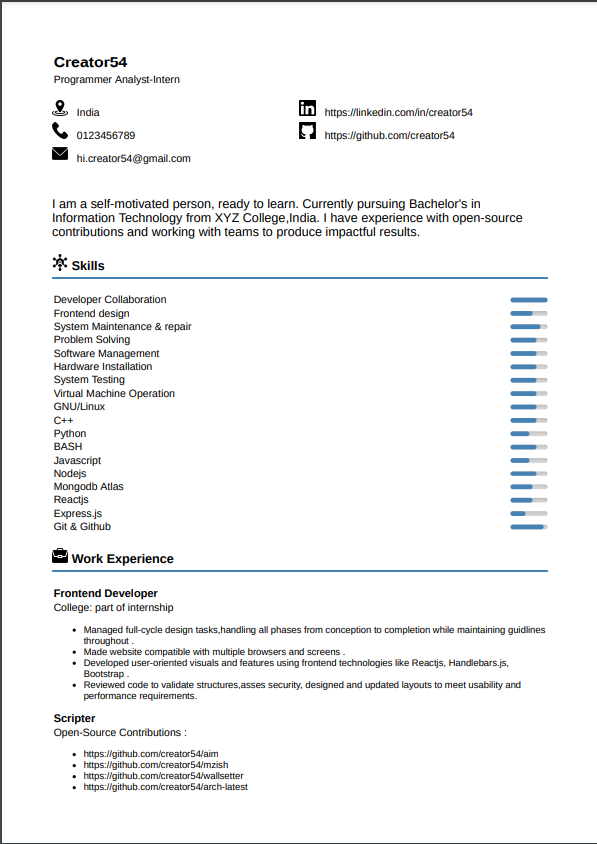
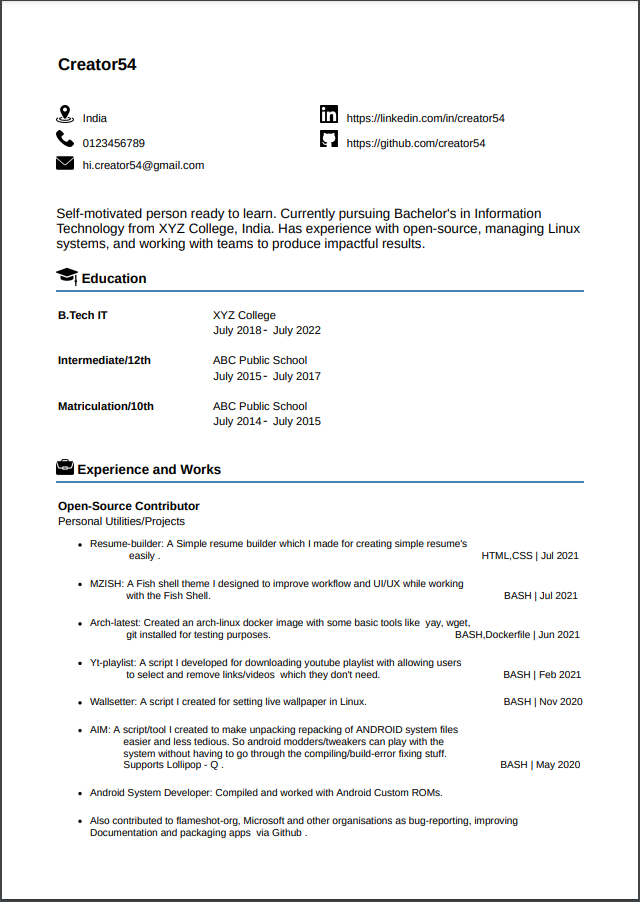
add v2

diff --git a/index.html b/index.html
@@ -11,9 +11,9 @@
       <!-- {/* Basic Details */} -->
 
       <div>
-        <input style='font-weight: bold' class='name' type='text' placeholder='Add Name'/><br/>
-        <input  type='text' placeholder='Profession you are appling for'/><br/><br/>
+        <input style='font-weight: bold;' class='name' type='text' placeholder='Add Name'/>
       </div>
+      <br/><br/>
       <div class='items'>
         <a><img src='https://image.flaticon.com/icons/png/128/1483/1483285.png' alt='location'/> <input type='text' placeholder='Add Address'/></a>
         <a><img src='https://image.flaticon.com/icons/png/128/49/49656.png' alt='linkedin'/> <input size='30' type='text' placeholder='Add URL'/></a>
@@ -25,161 +25,26 @@
       <div id="multilineinput" contenteditable="true"></div>
       <input type="hidden" name="summary"/>
 
-      <!-- {/* Skills */} -->
+      <!-- {/* Education */} -->
 
-      <div style='border-Bottom:2px solid steelblue;padding-bottom:5px'>
-        <br/><a><img style='margin-bottom: -3px;' src='https://image.flaticon.com/icons/png/128/3079/3079079.png' alt='skills'/><b>Skills</b></a>
+      <div style='border-bottom:2px solid steelblue;padding-bottom:5px'>
+        <br/><a><img style='width:25px;height:25px;margin-bottom:-6px' src='https://image.flaticon.com/icons/png/128/1940/1940611.png' alt='work'/><b>Education</b></a>
       </div>
       <br/>
-      <a class='skill'>
-        <input size='70' type='text' placeholder='add skill here, click above skills to add Summary'/>
-        <div class="wrapper" >
-          <div class="progress-bar">
-            <span class="progress-bar-fill" style='width: 100%'></span>
-          </div>
-        </div>
-      </a>
-      <a class='skill'>
-        <input size='70' type='text' placeholder='add skill here, click above skills to add Summary'/>
-        <div class="wrapper" >
-          <div class="progress-bar">
-            <span class="progress-bar-fill" style='width: 60%'></span>
-          </div>
-        </div>
-      </a>
-      <a class='skill'>
-        <input size='70' type='text' placeholder='add skill here, click above skills to add Summary'/>
-        <div class="wrapper" >
-          <div class="progress-bar">
-            <span class="progress-bar-fill" style='width: 80%'></span>
-          </div>
-        </div>
-      </a>
-      <a class='skill'>
-        <input size='70' type='text' placeholder='add skill here, click above skills to add Summary'/>
-        <div class="wrapper" >
-          <div class="progress-bar">
-            <span class="progress-bar-fill" style='width: 70%'></span>
-          </div>
-        </div>
-      </a>
-      <a class='skill'>
-        <input size='70' type='text' placeholder='add skill here, click above skills to add Summary'/>
-        <div class="wrapper" >
-          <div class="progress-bar">
-            <span class="progress-bar-fill" style='width: 70%'></span>
-          </div>
-        </div>
-      </a>
-      <a class='skill'>
-        <input size='70' type='text' placeholder='add skill here, click above skills to add Summary'/>
-        <div class="wrapper" >
-          <div class="progress-bar">
-            <span class="progress-bar-fill" style='width: 70%'></span>
-          </div>
-        </div>
-      </a>
-      <a class='skill'>
-        <input size='70' type='text' placeholder='add skill here, click above skills to add Summary'/>
-        <div class="wrapper" >
-          <div class="progress-bar">
-            <span class="progress-bar-fill" style='width: 70%'></span>
-          </div>
-        </div>
-      </a>
-      <a class='skill'>
-        <input size='70' type='text' placeholder='add skill here, click above skills to add Summary'/>
-        <div class="wrapper" >
-          <div class="progress-bar">
-            <span class="progress-bar-fill" style='width: 70%'></span>
-          </div>
-        </div>
-      </a>
-      <a class='skill'>
-        <input size='70' type='text' placeholder='add skill here, click above skills to add Summary'/>
-        <div class="wrapper" >
-          <div class="progress-bar">
-            <span class="progress-bar-fill" style='width: 70%'></span>
-          </div>
-        </div>
-      </a>
-      <a class='skill'>
-        <input size='70' type='text' placeholder='add skill here, click above skills to add Summary'/>
-        <div class="wrapper" >
-          <div class="progress-bar">
-            <span class="progress-bar-fill" style='width: 70%'></span>
-          </div>
-        </div>
-      </a>
-      <a class='skill'>
-        <input size='70' type='text' placeholder='add skill here, click above skills to add Summary'/>
-        <div class="wrapper" >
-          <div class="progress-bar">
-            <span class="progress-bar-fill" style='width: 50%'></span>
-          </div>
-        </div>
-      </a>
-      <a class='skill'>
-        <input size='70' type='text' placeholder='add skill here, click above skills to add Summary'/>
-        <div class="wrapper" >
-          <div class="progress-bar">
-            <span class="progress-bar-fill" style='width: 70%'></span>
-          </div>
-        </div>
-      </a>
-      <a class='skill'>
-        <input size='70' type='text' placeholder='add skill here, click above skills to add Summary'/>
-        <div class="wrapper" >
-          <div class="progress-bar">
-            <span class="progress-bar-fill" style='width: 50%'></span>
-          </div>
-        </div>
-      </a>
-      <a class='skill'>
-        <input size='70' type='text' placeholder='add skill here, click above skills to add Summary'/>
-        <div class="wrapper" >
-          <div class="progress-bar">
-            <span class="progress-bar-fill" style='width: 70%'></span>
-          </div>
-        </div>
-      </a>
-      <a class='skill'>
-        <input size='70' type='text' placeholder='add skill here, click above skills to add Summary'/>
-        <div class="wrapper" >
-          <div class="progress-bar">
-            <span class="progress-bar-fill" style='width: 60%'></span>
-          </div>
-        </div>
-      </a>
-      <a class='skill'>
-        <input size='70' type='text' placeholder='add skill here, click above skills to add Summary'/>
-        <div class="wrapper" >
-          <div class="progress-bar">
-            <span class="progress-bar-fill" style='width: 60%'></span>
-          </div>
-        </div>
-      </a>
-      <a class='skill'>
-        <input size='70' type='text' placeholder='add skill here, click above skills to add Summary'/>
-        <div class="wrapper" >
-          <div class="progress-bar">
-            <span class="progress-bar-fill" style='width: 40%'></span>
-          </div>
-        </div>
-      </a>
-      <a class='skill'>
-        <input size='70' type='text' placeholder='add skill here, click above skills to add Summary'/>
-        <div class="wrapper" >
-          <div class="progress-bar">
-            <span class="progress-bar-fill" style='width: 90%'></span>
-          </div>
-        </div>
-      </a>
-      
+      <input size='20' style='font-weight:bold' type='text' placeholder='Degree'/>
+      <input size='40' type='text' placeholder='From'/><br/>
+      <div class="edu-padding"><input type='text'size='5' placeholder='20XX'/>- <input size='5' type='text' placeholder='20XX'/><br/><br/></div>
+      <input size='20' style='font-weight:bold' type='text' placeholder='Degree'/>
+      <input size='40' type='text' placeholder='From'/><br/>
+      <div class="edu-padding"><input type='text'size='5' placeholder='20XX'/>- <input size='5' type='text' placeholder='20XX'/><br/><br/></div>
+      <input size='20' style='font-weight:bold' type='text' placeholder='Degree'/>
+      <input size='40' type='text' placeholder='From'/><br/>
+      <div class="edu-padding"><input type='text'size='5' placeholder='20XX'/>- <input size='5' type='text' placeholder='20XX'/><br/><br/></div>
+
       <!-- {/* Work Experience */} -->
 
       <div style='border-bottom:2px solid steelblue;padding-bottom:5px'>
-        <br/><a><img style='margin-bottom: -2px;' src='https://image.flaticon.com/icons/png/128/1063/1063299.png' alt='work'/><b>Work Experience</b></a>
+        <br/><a><img style='margin-bottom: -2px;' src='https://image.flaticon.com/icons/png/128/1063/1063299.png' alt='work'/><b>Experience and Works</b></a>
       </div>
       <br/>
 
@@ -187,6 +52,22 @@
         <input style='font-size:14px;font-weight:bold' type='text' placeholder='Add Role'></input><br/>
         <input type='text' placeholder='Add organisation Address'></input><br/>
         <ol style='list-style-type:disc'>
+          <li>
+            <div id="multilineinput" contenteditable="true"></div>
+            <input type='hidden'/>
+          </li>
+          <li>
+            <div id="multilineinput" contenteditable="true"></div>
+            <input type='hidden'/>
+          </li>
+          <li>
+            <div id="multilineinput" contenteditable="true"></div>
+            <input type='hidden'/>
+          </li>
+          <li>
+            <div id="multilineinput" contenteditable="true"></div>
+            <input type='hidden'/>
+          </li>
           <li>
             <div id="multilineinput" contenteditable="true"></div>
             <input type='hidden'/>
@@ -229,21 +110,96 @@
         </ol>
       </a>
 
-      <!-- {/* Education */} -->
-      
-      <div style='border-bottom:2px solid steelblue;padding-bottom:5px'>
-        <br/><a><img style='width:25px;height:25px;margin-bottom:-6px' src='https://image.flaticon.com/icons/png/128/1940/1940611.png' alt='work'/><b>Education</b></a>
+      <!-- {/* Skills */} -->
+
+      <div style='border-Bottom:2px solid steelblue;padding-bottom:5px'>
+        <br/><a><img style='margin-bottom: -3px;' src='https://image.flaticon.com/icons/png/128/3079/3079079.png' alt='skills'/><b>Skills</b></a>
       </div>
       <br/>
-      <input size='20' style='font-weight:bold' type='text' placeholder='Degree'/>
-      (<input type='text'size='5' placeholder='Start'/>- <input size='5' type='text' placeholder='Complete'/>)<br/>
-      <input size='40' type='text' placeholder='From'/><br/><br/>
-      <input size='20' style='font-weight:bold' type='text' placeholder='Degree'/>
-      (<input type='text'size='5' placeholder='Start'/>- <input size='5' type='text' placeholder='Complete'/>)<br/>
-      <input size='40' type='text' placeholder='From'/><br/><br/>
-      <input size='20' style='font-weight:bold' type='text' placeholder='Degree'/>
-      (<input type='text'size='5' placeholder='Start'/>- <input size='5' type='text' placeholder='Complete'/>)<br/>
-      <input size='40' type='text' placeholder='From'/><br/><br/>
+      <a style='font-size:12px'>
+        <input style='font-size:14px;font-weight:bold' type='text' placeholder='Communication'></input><br/>
+        <ol style="list-style-type:disc">
+          <li>
+            <div id="multilineinput" contenteditable="true"></div>
+            <input type='hidden'/>
+          </li>
+          <li>
+            <div id="multilineinput" contenteditable="true"></div>
+            <input type='hidden'/>
+          </li>
+        </ol>
+      </a>
+      <a style='font-size:12px'>
+        <input style='font-size:14px;font-weight:bold' type='text' placeholder='Programming'></input><br/>
+        <ol style="list-style-type:disc">
+          <li>
+            <div id="multilineinput" contenteditable="true"></div>
+            <input type='hidden'/>
+          </li>
+          <li>
+            <div id="multilineinput" contenteditable="true"></div>
+            <input type='hidden'/>
+          </li>
+        </ol>
+      </a>
+      <a style='font-size:12px'>
+        <input style='font-size:14px;font-weight:bold' type='text' placeholder='OS'></input><br/>
+        <ol style="list-style-type:disc">
+          <li>
+            <div id="multilineinput" contenteditable="true"></div>
+            <input type='hidden'/>
+          </li>
+          <li>
+            <div id="multilineinput" contenteditable="true"></div>
+            <input type='hidden'/>
+          </li>
+        </ol>
+      </a>
+      <a style='font-size:12px'>
+        <input style='font-size:14px;font-weight:bold' type='text' placeholder='Tools'></input><br/>
+        <ol style="list-style-type:disc">
+          <li>
+            <div id="multilineinput" contenteditable="true"></div>
+            <input type='hidden'/>
+          </li>
+          <li>
+            <div id="multilineinput" contenteditable="true"></div>
+            <input type='hidden'/>
+          </li>
+        </ol>
+      </a>
+      <a style='font-size:12px'>
+        <input style='font-size:14px;font-weight:bold' type='text' placeholder='Certifications'></input><br/>
+        <ol style="list-style-type:disc">
+          <li>
+            <div id="multilineinput" contenteditable="true"></div>
+            <input type='hidden'/>
+          </li>
+          <li>
+            <div id="multilineinput" contenteditable="true"></div>
+            <input type='hidden'/>
+          </li>
+        </ol>
+      </a>
+
+      <!-- {/* Hobbies and Interest */} -->
+
+      <div style='border-bottom:2px solid steelblue;padding-bottom:5px'>
+        <br/><a><img style='width:25px;height:25px;margin-bottom:-6px' src='https://image.flaticon.com/icons/png/128/4968/4968859.png' alt='work'/><b>Hobbies and Interests</b></a>
+      </div>
+      <br/>
+      <a style='font-size:12px'>
+        <ol style="list-style-type:disc">
+          <li>
+            <div id="multilineinput" contenteditable="true"></div>
+            <input type='hidden'/>
+          </li>
+          <li>
+            <div id="multilineinput" contenteditable="true"></div>
+            <input type='hidden'/>
+          </li>
+        </ol>
+      </a>
     </div>
   </body>
 </html>

diff --git a/styles.css b/styles.css
@@ -14,6 +14,10 @@ img{
   padding-right: 5px;
 }
 
+.edu-padding{
+  margin-left: 185px;
+}
+
 .container{
   font-family: Arial !important;
   display: block;
@@ -30,6 +34,10 @@ input{
 
 .name{
   font-size: 20px;
+}
+
+li{
+  margin-bottom: 5px;
 }
 
 .skill{

diff --git a/README.md b/README.md
@@ -1,9 +1,9 @@
 ### A simple Resume Builder
 No software installation required ;)
 
-![sample resume](https://github.com/Creator54/Resume-builder/blob/main/resume-0.jpg)
+![sample resume](https://github.com/Creator54/Resume-builder/blob/v2/resume-0.jpg)
 
-![sample resume](https://github.com/Creator54/Resume-builder/blob/main/resume-1.png)
+![sample resume](https://github.com/Creator54/Resume-builder/blob/v2/resume-1.png)
 
 ### working 
 Open url/clone run locally fill details 
